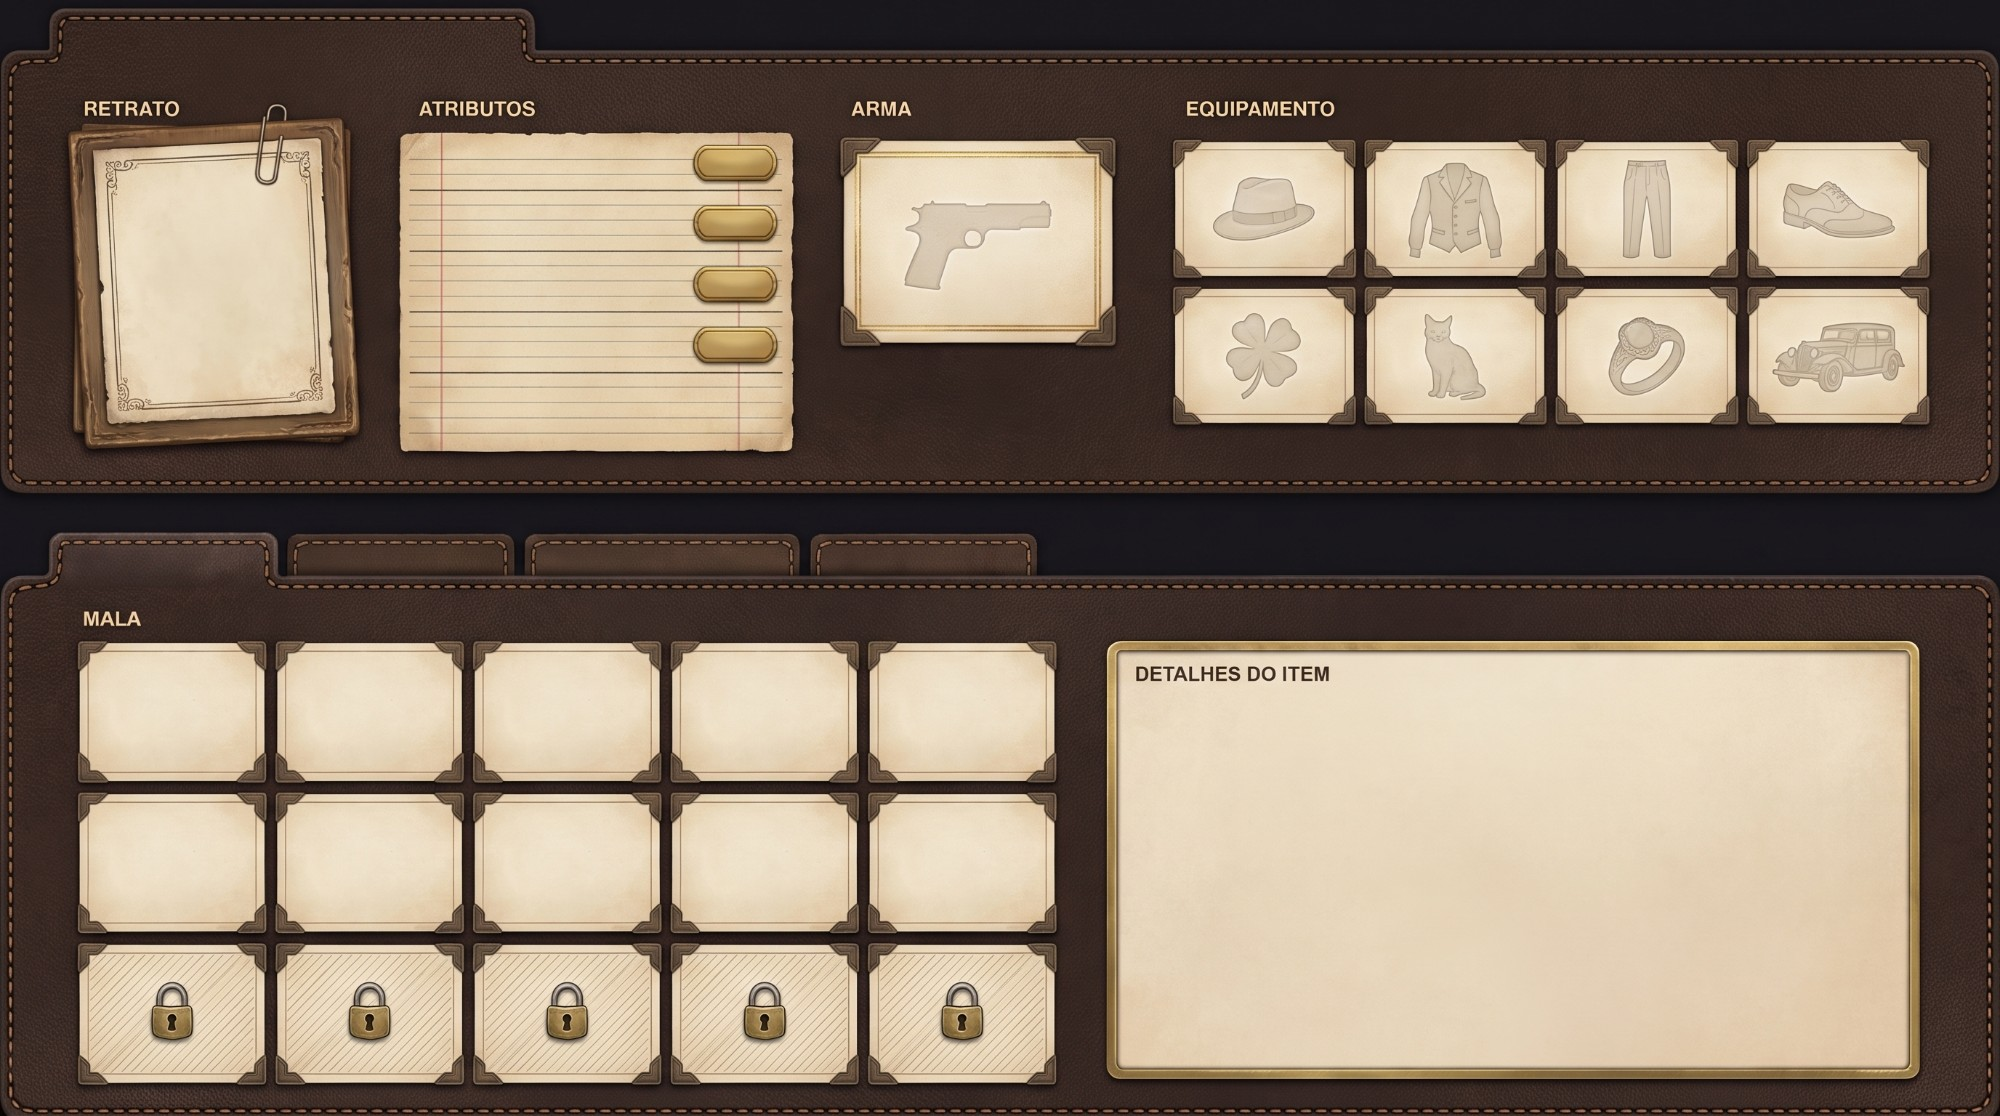
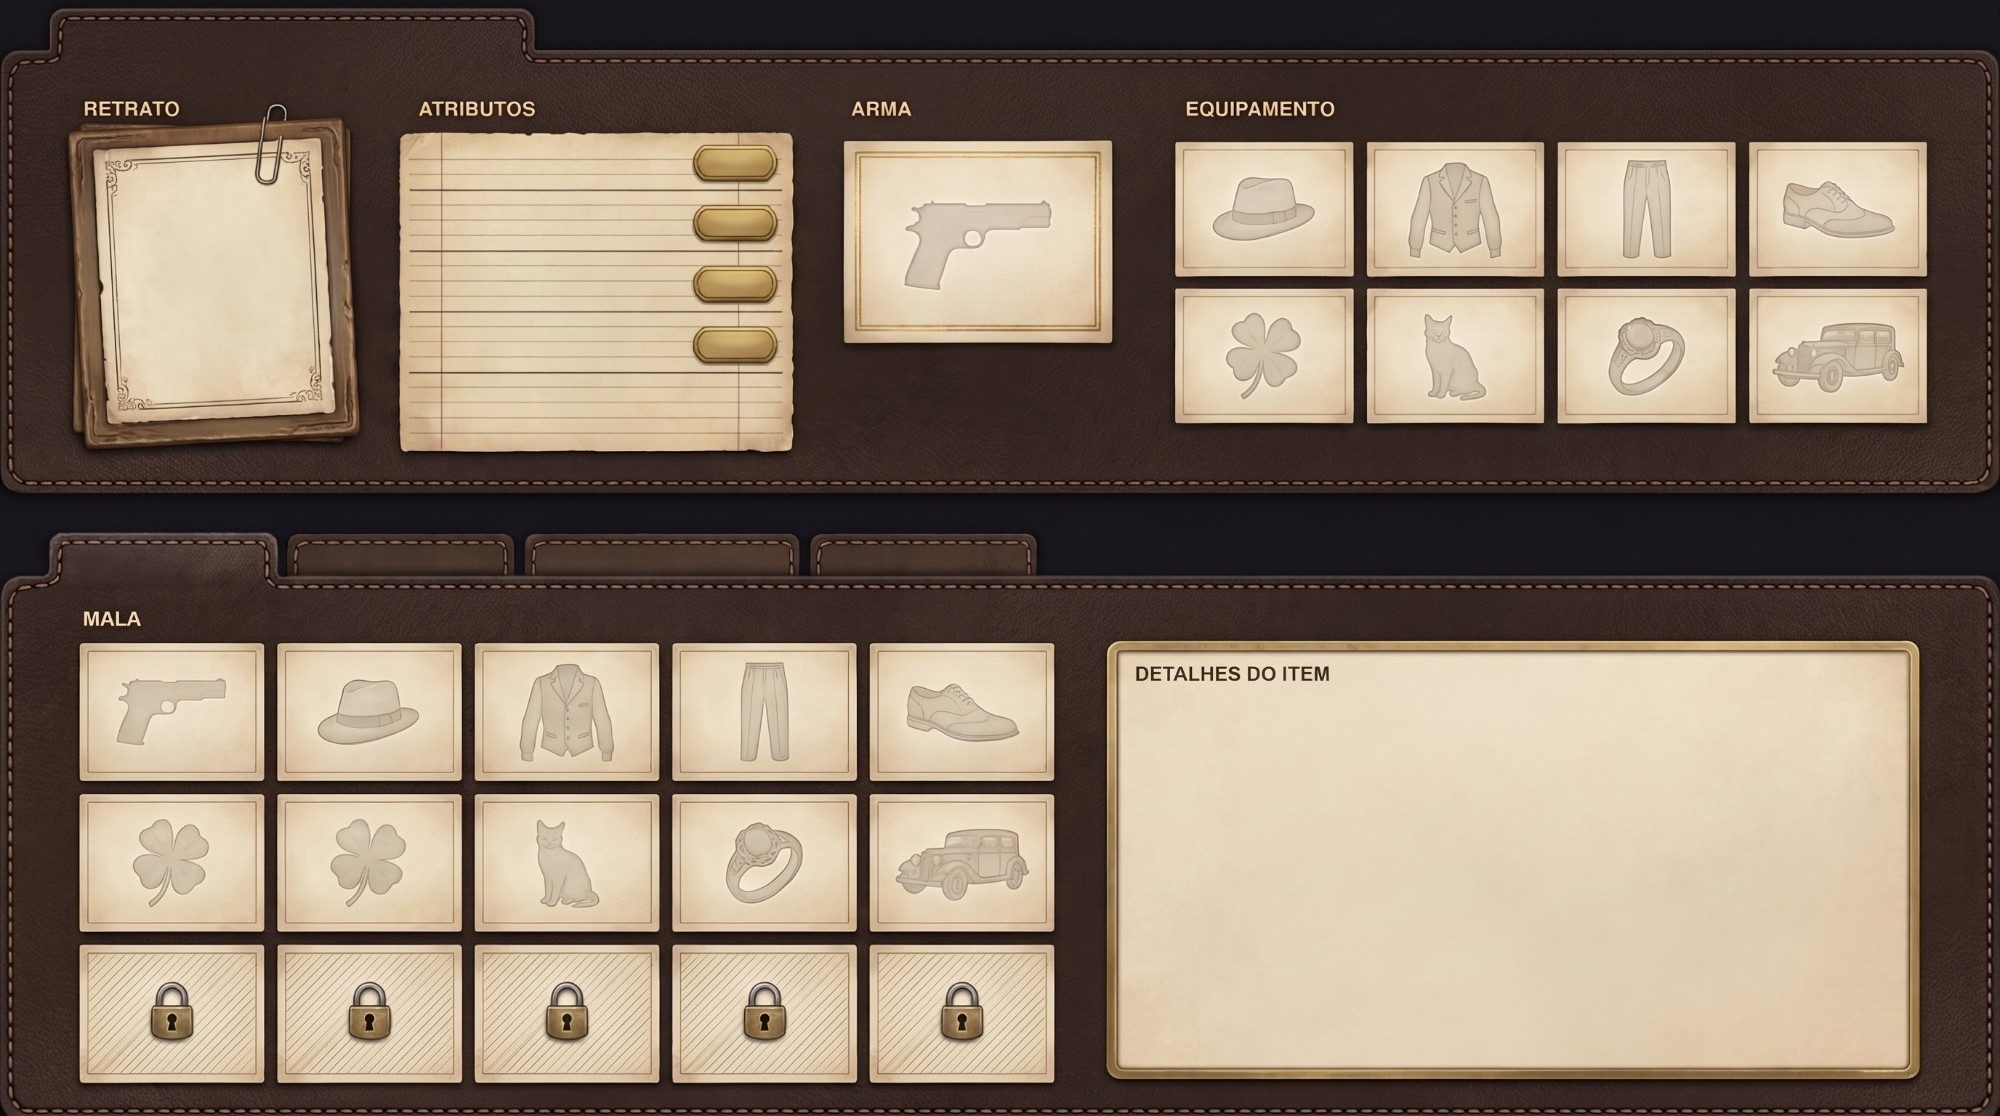
feat: moldura da Ficha sem quinas, Mala sem desenhos fantasma (mostra VAZIO) (R-FICHA-ARTE-1)

diff --git a/src/web/style.css b/src/web/style.css
@@ -4228,7 +4228,7 @@ html[data-ficha="nova"] #app[data-tab="perfil"] .profile-weapon-panel .weapon-sl
 html[data-ficha="nova"] #app[data-tab="perfil"] .profile-gear-panel { position: absolute; left: 58.6%; top: 12.54%; width: 37.9%; height: 25.45%; padding: 0; background: none; border: 0; box-shadow: none; }
 html[data-ficha="nova"] #app[data-tab="perfil"] .equipped-slots-grid { height: 100%; grid-template-columns: repeat(4, 1fr); gap: 3.5% 1.19%; }
 html[data-ficha="nova"] #app[data-tab="perfil"] .gear-slot { position: relative; background: none; border: 0; padding: 0; justify-content: center; }
-html[data-ficha="nova"] #app[data-tab="perfil"] .gear-slot.filled::before { content: ""; position: absolute; inset: 7.3% 6.5%; background: url("/assets/ficha/slot-vazio.webp") center / 100% 100% no-repeat; }
+html[data-ficha="nova"] #app[data-tab="perfil"] .gear-slot.filled::before { content: ""; position: absolute; inset: 3% 3.5%; background: url("/assets/ficha/slot-vazio.webp") center / 100% 100% no-repeat; }
 html[data-ficha="nova"] #app[data-tab="perfil"] .gear-slot.filled .gear-ico { position: relative; width: 52%; height: 52%; color: #3b2a18; transform: rotate(-3deg); filter: drop-shadow(0 0.1rem 0.12rem rgba(0, 0, 0, 0.35)); }
 /* subpasta: abas em texto, Mala e detalhes sobre a imagem */
 html[data-ficha="nova"] #app[data-tab="perfil"] .sub-tabs { position: absolute; left: 0; top: 0; bottom: auto; width: 100%; height: 100%; display: block; pointer-events: none; }
@@ -4240,7 +4240,7 @@ html[data-ficha="nova"] #app[data-tab="perfil"] .sub-tab[data-pane="conquistas"]
 html[data-ficha="nova"] #app[data-tab="perfil"] .sub-tab[data-pane="honra"] { left: 40.6%; width: 11.2%; }
 html[data-ficha="nova"] #app[data-tab="perfil"] .inventory-slots-grid { position: absolute; left: 3.9%; top: 57.53%; width: 48.9%; height: 39.7%; display: grid; grid-template-columns: repeat(5, 1fr); grid-template-rows: repeat(3, 1fr); gap: 2.3% 1.03%; }
 html[data-ficha="nova"] #app[data-tab="perfil"] .inv-slot { position: relative; width: auto; height: auto; aspect-ratio: auto; background: none; border: 0; }
-html[data-ficha="nova"] #app[data-tab="perfil"] .inv-slot:nth-child(n+11):not(.locked)::before { content: ""; position: absolute; inset: 7% 5.9%; background: url("/assets/ficha/slot-vazio.webp") center / 100% 100% no-repeat; }
+html[data-ficha="nova"] #app[data-tab="perfil"] .inv-slot:nth-child(n+11):not(.locked)::before { content: ""; position: absolute; inset: 1.8% 1.9%; background: url("/assets/ficha/slot-vazio.webp") center / 100% 100% no-repeat; }
 html[data-ficha="nova"] #app[data-tab="perfil"] .inv-slot[data-inv-idx] > * { position: relative; filter: drop-shadow(0 0.1rem 0.12rem rgba(0, 0, 0, 0.4)); }
 html[data-ficha="nova"] #app[data-tab="perfil"] .inv-item-details-box { position: absolute; left: 55.35%; top: 57.53%; width: 40.65%; height: 39.25%; padding: 3.2% 2.4% 2%; box-sizing: border-box; background: none; border: 0; box-shadow: none; color: #3b2a18; overflow: auto; }
 html[data-ficha="nova"] #app[data-tab="perfil"] .sub-pane.active:not([data-pane="mala"]) { position: absolute; left: 3%; top: 54.5%; width: 94%; height: 42.5%; box-sizing: border-box; padding: 2%; overflow: auto; background: url("/assets/ficha/papel.webp") center / 100% 100% no-repeat; border-radius: 0.5rem; color: #3b2a18; }

diff --git a/tools/ficha_limpa.py b/tools/ficha_limpa.py
@@ -103,6 +103,29 @@ for (y0, x0, y1, x1) in []:
     base.paste(canto.transpose(Image.FLIP_TOP_BOTTOM), (xl, yb), feather.transpose(Image.FLIP_TOP_BOTTOM))
     base.paste(canto.transpose(Image.ROTATE_180), (xr, yb), feather.transpose(Image.ROTATE_180))
 res = np.array(base)
+# Mala: a IA desenhou os "fantasmas" também nas duas primeiras fileiras da Mala; aqui eles são apagados (o papel é liso),
+# para o jogo mostrar o carimbo VAZIO. O equipamento e a arma mantêm o desenho fantasma.
+rng = np.random.default_rng(7)
+MALA_Y = (652, 803)
+MALA_X = (89, 286, 484, 681, 879)
+res = res.copy()
+for y0 in MALA_Y:
+    for x0 in MALA_X:
+        y1, x1 = y0 + 120, x0 + 166
+        pad = 10
+        ys, xs_ = slice(y0 - pad, y1 + pad), slice(x0 - pad, x1 + pad)
+        m = np.zeros((y1 - y0 + 2 * pad, x1 - x0 + 2 * pad), bool)
+        m[pad + 9:-(pad + 9), pad + 9:-(pad + 9)] = True
+        crop = res[ys, xs_].astype(float) / 255
+        # grão do papel medido na moldura (anel sem desenho)
+        anel = crop[pad + 4:pad + 11, pad + 20:-(pad + 20)]
+        grao = float((anel - ndi.gaussian_filter(anel, (0, 3, 0))).std())
+        lisa = inpaint_biharmonic(crop, m, channel_axis=-1)
+        ruido = ndi.gaussian_filter(rng.normal(0, grao, lisa.shape[:2]), 0.7)[..., None]
+        fill = np.clip(lisa + ruido, 0, 1)
+        peso = ndi.gaussian_filter(m.astype(float), 2.0)[..., None]
+        res[ys, xs_] = (np.clip(crop * (1 - peso) + fill * peso, 0, 1) * 255).astype(np.uint8)
+
 Image.fromarray(res).save(OUT + "moldura.webp", "WEBP", quality=88, method=6)
 # recorte de slot vazio (a partir de um slot vazio já sem quinas)
 y0, x0, y1, x1 = 652, 89, 772, 255

diff --git a/docs/REGRAS_DO_JOGO.md b/docs/REGRAS_DO_JOGO.md
@@ -118,7 +118,7 @@ Observação: com 7 minutos por ponto, uma missão de 15 energia custa 1h45 de e
 | R-OURO-1 | **125 de ouro ao subir de nível** | Cada nível subido paga 125 de ouro (vários níveis de uma vez pagam 125 cada). Vale na missão, no duelo e no treino, porque sai da mesma função que sobe o nível. O personagem começa com 25 de ouro | **Fundador, 2026-11-11** | `src/shared/gold.ts` (`GOLD`), `src/shared/player.ts` (`applyXp`) | `gold.test.ts` |
 | R-OURO-2 | **Drop raro de ouro em missão** | Ao vencer uma missão: **3% de chance** de cair ouro; se cair, de **10 a 30**, com 10 sendo o mais provável e 30 o mais raro (o peso cai em linha reta: 10 pesa 21, 30 pesa 1, então 10 é 21 vezes mais comum que 30). Hoje o sorteio roda no navegador (D2 o move para o servidor) | **Fundador, 2026-11-11** (3% e 10 a 30); Claude (curva linear entre 10 e 30, a confirmar) | `src/shared/gold.ts` (`rollGoldDrop`), `main.ts` (missão vencida) | `gold.test.ts` (200.000 sorteios) |
 | R-MISSAO-CENA-1 | **Cena da aba Missões (protótipo)** | A aba Missões tem uma cena (fundo ilustrado de bar, calmo e sem brilho) dentro da pasta, com 3 chefões: **leve, médio e pesado**. Cada um oferece uma missão **sorteada**; quanto mais pesado, maior o custo de energia (5, 10, 20) e a recompensa. Ao passar o mouse (ou tocar) mostra a missão; ao aceitar, as três são sorteadas de novo. **Protótipo**: bonecos provisórios, "Aceitar" ainda não cumpre missão, e a lista de missões atual continua abaixo da cena. Falta: sorteio no servidor, vínculo com missões reais, arte dos chefões | **Fundador, 2026-11-12** (ideia e fundo aprovado) | `src/web/missionScene.ts`, `index.html`, `style.css`, `public/assets/scenes/missoes-bg.webp` | `missionScene.test.ts` |
-| R-FICHA-ARTE-1 | **Ficha nova desenhada por IA (oficial)** | A Ficha pode ser mostrada sobre uma moldura de 2000 x 1116 gerada por IA (couro, álbum de fotos): retrato, caderno de atributos, arma, 8 slots de equipamento com desenho fantasma do tipo de item, Mala 5 x 3 (3ª fileira com cadeado) e detalhes do item. Textos, números, itens e botões continuam em código, posicionados em % da moldura. O desenho fantasma **some quando há item** (coberto por um recorte de slot vazio). **É a Ficha oficial (padrão).** `?ficha=antiga` volta à antiga só para comparar (fica guardado no navegador; `?ficha=nova` religa). O clipe do retrato é desenhado por código, por cima da foto (o da imagem foi apagado por `tools/ficha_limpa.py`). Os atributos alternam entre o valor e o efeito (dano, vida...) ao passar o mouse, como antes. Os slots vazios da Mala mostram o carimbo VAZIO. **Pendente:** remover as quinas (cantos de foto) dos slots, que exige nova versão da moldura. Limitações do teste: a aba "Mala" está sempre levantada na imagem, rótulos como RETRATO e ATRIBUTOS vêm da imagem, abas da esquerda continuam (a barra flutuante inferior vem depois), sem tema bege | **Fundador, 2026-11-12** | `src/web/fichaNova.ts`, `style.css` (bloco FICHA NOVA), `public/assets/ficha/*` | `fichaNova.test.ts` |
+| R-FICHA-ARTE-1 | **Ficha nova desenhada por IA (oficial)** | A Ficha pode ser mostrada sobre uma moldura de 2000 x 1116 gerada por IA (couro, álbum de fotos): retrato, caderno de atributos, arma, 8 slots de equipamento com desenho fantasma do tipo de item, Mala 5 x 3 (3ª fileira com cadeado) e detalhes do item. Textos, números, itens e botões continuam em código, posicionados em % da moldura. O desenho fantasma **some quando há item** (coberto por um recorte de slot vazio). **É a Ficha oficial (padrão).** `?ficha=antiga` volta à antiga só para comparar (fica guardado no navegador; `?ficha=nova` religa). O clipe do retrato é desenhado por código, por cima da foto (o da imagem foi apagado por `tools/ficha_limpa.py`). Os atributos alternam entre o valor e o efeito (dano, vida...) ao passar o mouse, como antes. Os slots vazios da Mala mostram o carimbo VAZIO. A moldura vigente não tem quinas nos slots; os desenhos fantasma da Mala (que a IA pôs) são apagados por `tools/ficha_limpa.py`, e só Equipamento e Arma mantêm o desenho do tipo. Limitações do teste: a aba "Mala" está sempre levantada na imagem, rótulos como RETRATO e ATRIBUTOS vêm da imagem, abas da esquerda continuam (a barra flutuante inferior vem depois), sem tema bege | **Fundador, 2026-11-12** | `src/web/fichaNova.ts`, `style.css` (bloco FICHA NOVA), `public/assets/ficha/*` | `fichaNova.test.ts` |
 | R-OURO-3 | **Teto de ouro conferido pelo servidor** | O servidor recusa um save com ouro acima de 25 + 125 por nível acima do 1 + 30 por missão cumprida (o máximo que o jogo pode ter dado). Gastar sempre é aceito | Claude, 2026-11-11 | `src/shared/gold.ts` (`goldCap`), `rules.ts` (`validateSave`) | `gold.test.ts`, `server.test.ts` ("ouro acima do inicial é recusado") |
 | R-OURO-4 | **Compra de ouro com dinheiro real** | Vai existir, mas **ainda não será feita** (depende do pagamento, E-etapas). Quando existir, o teto de R-OURO-3 muda | **Fundador, 2026-11-11** | — (não implementado) | — |
 | R-DUELO-5 | **Respeito de duelo é do servidor** | O Respeito ganho ou perdido em duelo é somado pelo servidor e o navegador não consegue desfazê-lo nem inflá-lo; Respeito de qualquer outra origem é recusado (R-RESPEITO-1) | Claude, 2026-11-11 | `rules.ts` (`validateSave`, `respect_duels`) | `server.test.ts` |

diff --git a/STATUS.md b/STATUS.md
@@ -25,7 +25,7 @@ Jogo de navegador de gângsteres, nostálgico (era Goodgame Gangster), meta de r
 | Nome | **Corrigido (C4):** título da aba e tela de criação dizem "Mobster Rise". Comentários internos e a chave do save ainda têm o nome antigo (jogador não vê) | `index.html` |
 
 ## Banco de dados (2026-11-11)
-- **Ficha nova, ajustes (2026-11-12):** clipe por cima da foto, atributos menores e voltaram a alternar com o mouse, carimbo VAZIO na Mala. As quinas dos slots ainda estão: a remoção automática deixou os cantos borrados, aguarda moldura nova da IA. Visto no localhost com dados simulados.
+- **Ficha nova, ajustes (2026-11-12):** clipe por cima da foto, atributos menores e voltaram a alternar com o mouse, carimbo VAZIO na Mala. Moldura nova da IA sem quinas; os fantasmas da Mala foram apagados para aparecer o VAZIO. Visto no localhost com dados simulados (equipamento cheio, mala vazia, 3ª fileira liberada e trancada).
 - **Ficha nova oficial (2026-11-12):** a Ficha usa a moldura desenhada por IA (R-FICHA-ARTE-1). Visto no localhost com dados simulados (equipamento, mala, cadeados, caderno). Não visto: conta real com itens e avatar, arrastar e soltar, tema bege, celular, trocar de subaba, Mercado Negro.
 - **Cena de Missões, protótipo (2026-11-12):** a aba Missões mostra o fundo aprovado com 3 bonecos provisórios (leve, médio e pesado) e missões de exemplo sorteadas (R-MISSAO-CENA-1). Visto no localhost, tema escuro. Falta: arte dos chefões, sorteio no servidor, ligar às missões reais, celular, tema bege.
 - **Costura e respiros (2026-11-12):** a costura das pastas contorna a aba ativa (R-PASTA-1) e a Ficha tem respiros iguais dos dois lados (R-LAYOUT-13). Visto no localhost em tema escuro, com a Ficha e o Mercado Negro (abas e subaba). Não visto: tema bege, conta real, avisos com a costura nova.
